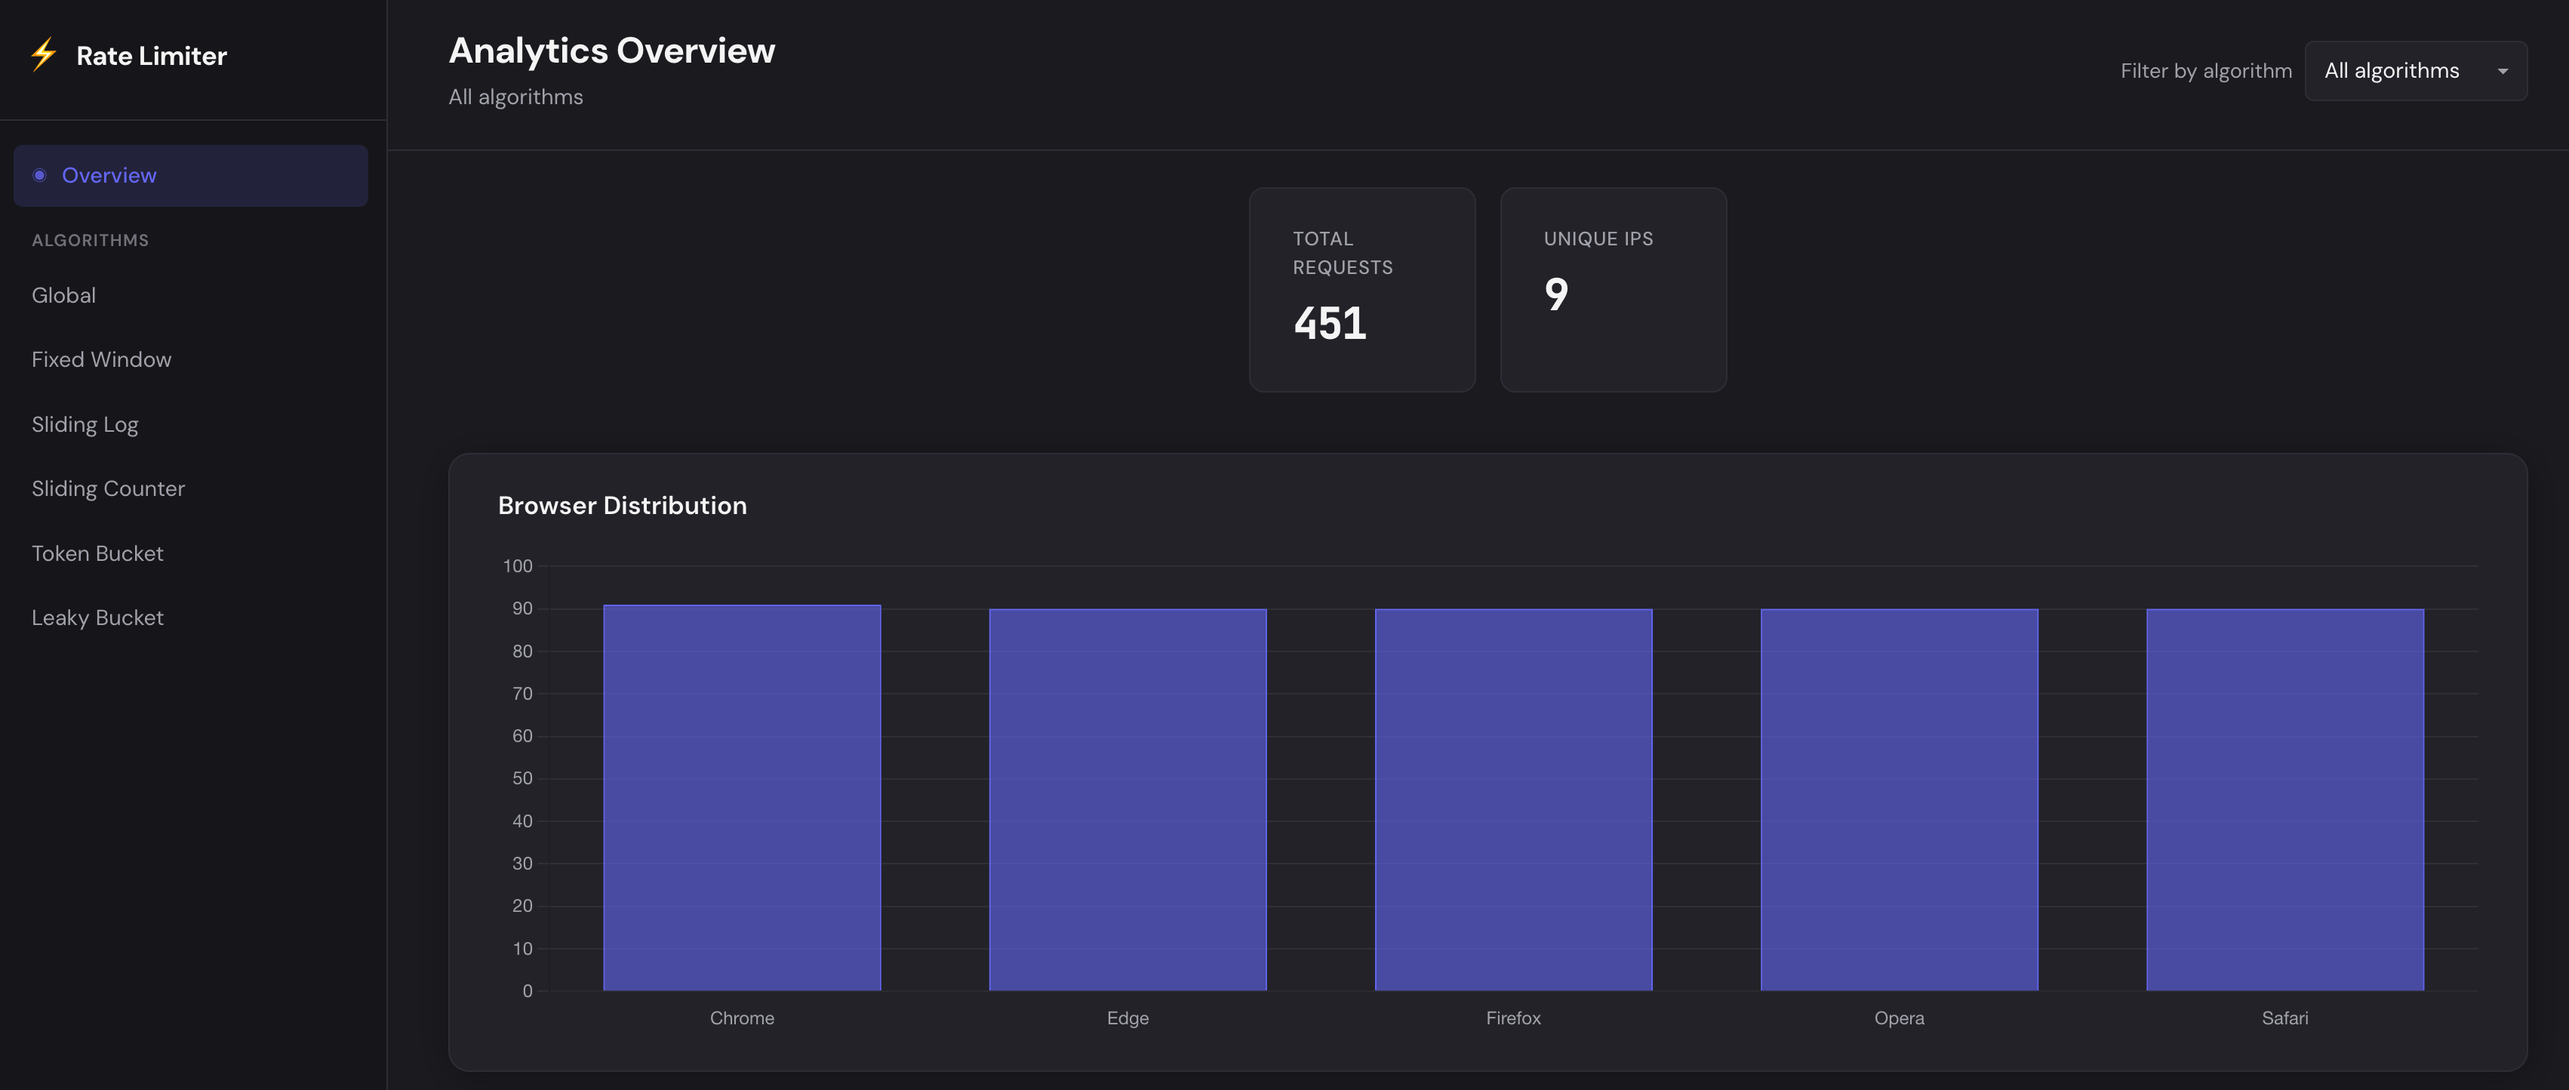
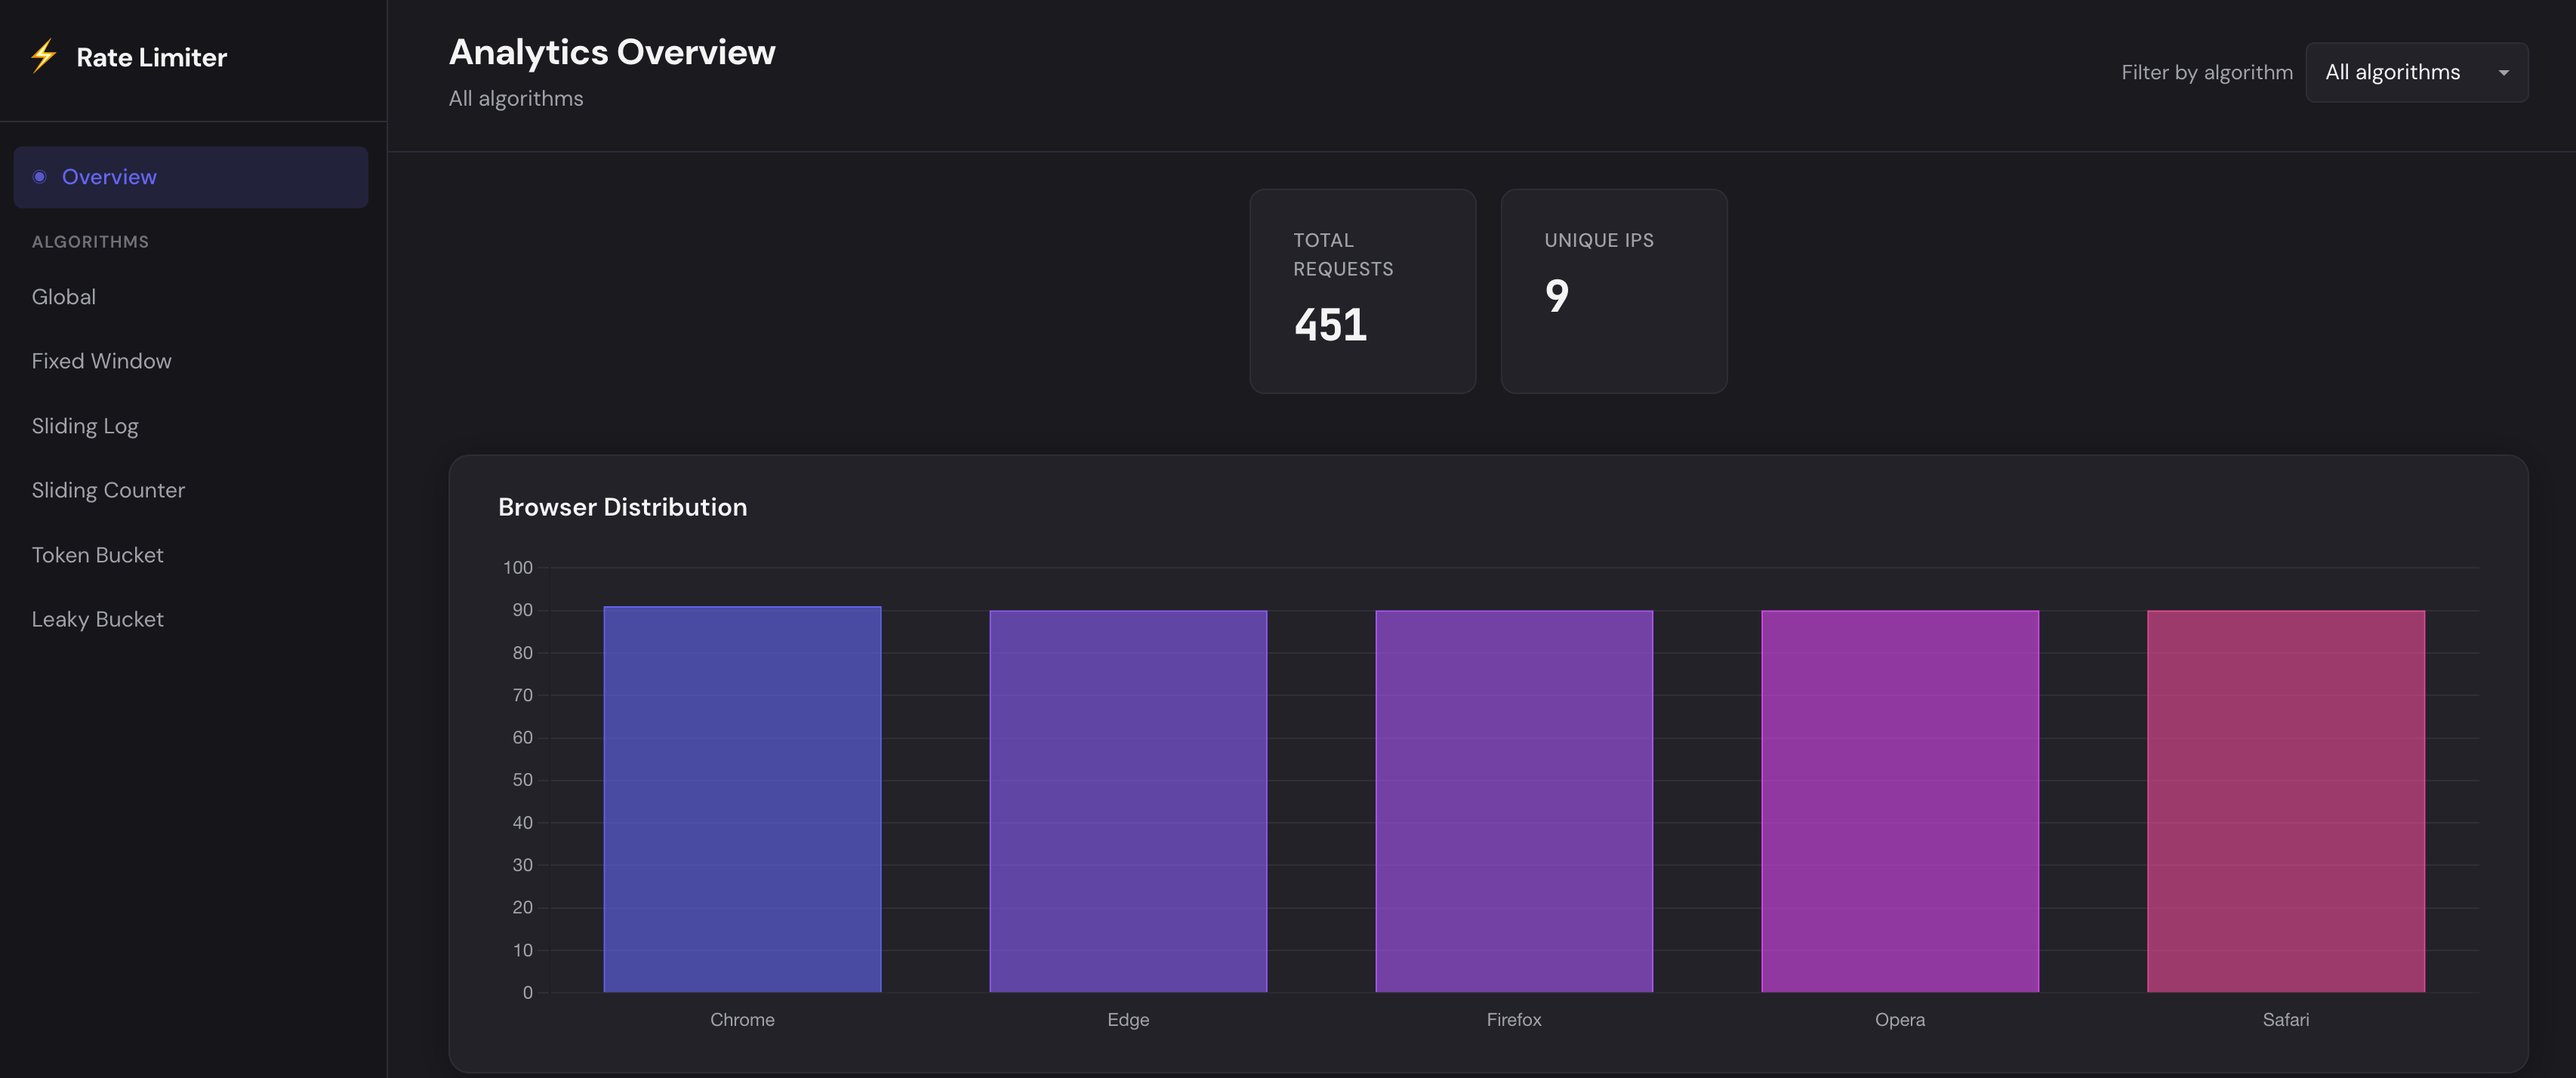
chore: bar chart color making multiple randomly.

diff --git a/public/dashboard/app.js b/public/dashboard/app.js
@@ -199,9 +199,14 @@
     const labels = list.map((d) => (d && d.browser) ? d.browser : "Unknown");
     const values = list.map((d) => (d && typeof d.total === "number") ? d.total : 0);
 
+    const barColors = labels.map((_, i) => CHART_COLORS[i % CHART_COLORS.length]);
+    const barColorsAlpha = barColors.map((c) => c + "99");
+
     if (state.charts.browsers) {
       state.charts.browsers.data.labels = labels;
       state.charts.browsers.data.datasets[0].data = values;
+      state.charts.browsers.data.datasets[0].backgroundColor = barColorsAlpha;
+      state.charts.browsers.data.datasets[0].borderColor = barColors;
       state.charts.browsers.update("none");
       return;
     }
@@ -216,8 +221,8 @@
         datasets: [{
           label: "Requests",
           data: values,
-          backgroundColor: CHART_COLORS[0] + "99",
-          borderColor: CHART_COLORS[0],
+          backgroundColor: barColorsAlpha,
+          borderColor: barColors,
           borderWidth: 1,
         }],
       },
